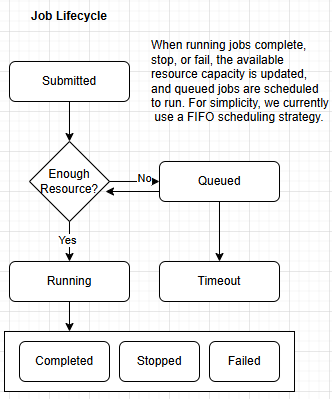
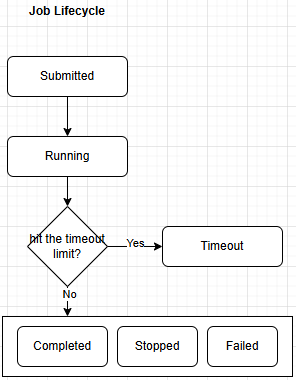
Added more design details

diff --git a/docs/design.md b/docs/design.md
@@ -5,89 +5,101 @@ It is a prototype job worker service designed based on the requirements at https
 ### Definition
 The service provides an API for running arbitrary Linux processes. These processes can be any executable programs available on the machine hosting the service. The API supports specifying commands, arguments, and environment variables.
 
-To support job status queries, each job is assigned a unique ID (UID). Resource controls for CPU, memory, and disk I/O are implemented per job using cgroups, as requested.
+To support job status queries, each job is assigned a unique ID (UID). Resource controls for CPU, memory, and disk I/O are implemented per job using cgroups v2, as requested.
 
-There are also some implicit requirements, such as maintaining job status information for querying and supporting role-based access control for authorization (using usernames as a simple approach). Jobs may also have a default timeout value to prevent them from running indefinitely.
+There are also some implicit requirements, such as maintaining job status information for querying and supporting role-based access control for authorization (using CN for user and OU for role as a simple approach). Request timeouts are hardcoded on the gRPC server side.
 ```golang
 type JobSpec struct {
     UID       string
-    Command   []string
+    Command   string
     Args      []string
-    Env       map[string]string
-    Resource  ResourceControl
+    Resources map[string]string
+    ProcessID int
     Status    JobStatus
-    Timeout   time.Duration
     Username  string
-    Created   timestamp
-    Updated   timestamp
+    StartTime timestamp
+    EndTime   timestamp
 }
+const (
+	Running   JobStatus = iota
+	Completed          // process exited 0
+	Stopped            // killed via Stop()
+	Failed             // process exited non-zero
+	Timeout            
+    Unknown
+)
 ```
 ### Lifecycle
 The following diagram illustrates the details of job status. If a job does not exist, unknown is returned by default.
 
  ![My Local Image](img/job_lifecycle.png)
 ## Component Architecture
-There are three major components: the client, the gRPC server, and the library, as shown below.
+There are three major components: the client, the gRPC server, and the library, as shown below. The greyed-out ones are optional.
  ![My Local Image](img/architecture.png)
 
 ## Client
-Cobra is integrated to create a root command to support four subcommands: startJobCmd, stopJobCmd, queryStatusCmd, and streamOutputCmd. Since we use mTLS authentication, we verify client certificates. The certificates are required to set up client commands.
+Cobra is integrated to create a root command that supports four subcommands: startJobCmd, stopJobCmd, queryStatusCmd, and streamOutputCmd, with an optional listJobsCmd.
 
-We also add resource control as mentioned above. We could use a JSON format in the command line, such as {"cpu": 1, "mem": "30M"}, to make it easier to extend. However, to keep it simple and easy to implement, we use flags like --cpu 1 --mem 30M instead.
+Since we use mTLS authentication, client certificates are verified. These certificates are required to configure and execute the client commands.
 
-We also use .max to define a hard limit for simplicity.
+The certificates contain the CN (Common Name) field as the username and the OU (Organizational Unit) field as the role for authorization purposes. The server validates these fields against the access control list (ACL), which supports two roles: user and admin.
+
+We also added resource control as described above. Resource flags are provided as key-value pairs, for example: --resource cpu=1 --resource memory=30m. The current implementation supports cpu (number of CPU cores), memory (memory.max as the memory limit), io.read (disk read throughput limit), and io.write (disk write throughput limit).
+
+Each request might have a timeout. However, for simplicity, the timeout is currently hard-coded in the gRPC server.
 
 ### Start Job
 ```
-client \
+client start \
   --server [ip:port] \
   --cert client.crt \
   --key client.key \
   --ca ca.crt \
-  start <--command> [args...] [envs...] [--cpu] [--mem] [--io] [--timeout]
+  --command /usr/bin/python  \
+  --arg -m --arg 8080 \
+  --resource cpu=1 --resource memory=30m --resource io.read=10mb --resource io.write=5mb
  ```
 ### Stop Job
  ```
-client \
+client stop \
   --server [ip:port] \
   --cert client.crt \
   --key client.key \
   --ca ca.crt \
-  stop <jobUID> [--timeout]
+  --id  cb056f6e-1643-44d3-9f64-11688bc562c4
  ```
 
  ### Query Status
  ```
-client \
+client status \
   --server [ip:port] \
   --cert client.crt \
   --key client.key \
   --ca ca.crt \
-  status <jobUID> [--timeout]
+  --id  cb056f6e-1643-44d3-9f64-11688bc562c4
  ```
 
   ### Stream output
  ```
-client \
+client output \
   --server [ip:port] \
   --cert client.crt \
   --key client.key \
   --ca ca.crt \
-  output <jobUID> [--timeout]
+  --id  cb056f6e-1643-44d3-9f64-11688bc562c4
  ```
 
    ### (Optional) List jobs
  ```
-client \
+client list \
   --server [ip:port] \
   --cert client.crt \
   --key client.key \
-  --ca ca.crt \
-  list [--timeout]
+  --ca ca.crt 
  ```
 
 ## gPRC Server
-Following the commands above, the service proto is defined below. ListJobs is added for testing purposes.
+Following the commands above, the service proto is defined below. ListJobs is added for testing purposes. One concern is that output streaming might return large payloads. In the future, I may replace bytes with BinaryChunk to support chunked streaming. For now, we use a simpler solution to get the system functional first.
  ```
 service JobService {
 
@@ -105,13 +117,113 @@ service JobService {
   // Optional for testing
   rpc ListJobs(ListJobsRequest) returns (ListJobsResponse);
 }
+
+enum JobStatus {
+  JOB_STATUS_UNKNOWN = 0;
+  JOB_STATUS_RUNNING = 1;
+  JOB_STATUS_STOPPED = 2;
+  JOB_STATUS_FAILED = 3;
+  JOB_STATUS_COMPLETED = 4;
+}
+
+message StartJobRequest {
+  string command = 1;
+  repeated string args = 2;
+  map<string, string> resources = 3;
+}
+message StartJobResponse {
+  string job_id = 1;
+  JobStatus job_status = 2;
+  google.protobuf.Timestamp start_time = 3;
+  google.protobuf.Timestamp end_time = 4;
+  string message = 5;
+}
+
+message StopJobRequest {
+  string job_id = 1;
+}
+message StopJobResponse {
+  string job_id = 1;
+  bool stopped = 2;
+  JobStatus job_status = 3;
+  string message = 4;
+}
+
+message GetStatusRequest {
+  string job_id = 1;
+}
+message GetStatusResponse {
+  string job_id = 1;
+  JobStatus status = 2;
+  string message = 3;
+}
+
+message StreamOutputRequest {
+  string job_id = 1;
+}
+message StreamOutputResponse {
+  string job_uid = 1;
+  bytes payload = 2; // I’m concerned that the payload might be large
+  string message = 3;
+}
+
+message ListJobsRequest {}
+message ListJobsResponse {
+  repeated JobInfo jobs = 1;
+  string messages = 2;
+}
+message JobInfo {
+  string job_id = 1;
+  string username = 2;
+  string command = 3;
+  repeated string args = 4;
+  map<string, string> resources = 5;
+  JobStatus job_status = 6;
+  google.protobuf.Timestamp start_time = 7;
+  google.protobuf.Timestamp end_time = 8;
+}
+
  ```
 As shown in the architecture, an authentication interceptor and an authorization interceptor are placed before the job service to ensure security. We also assume that certificates need to be rotated over time. For simplicity, we currently hardcode the expiration time.
 
 ## Library
-The job manager provides an interface for the job worker service to start and stop jobs. It includes a resource manager with an upper limit on capacity. When a job is scheduled, the resource manager checks available resources. If insufficient, the job is queued until resources are freed. A FIFO strategy is used for simplicity.
+### Resource Control
+It is implemented using cgroups v2. When a job starts, its resource limits are applied by creating a cgroup named after its jobUID. A command is constructed from the job’s command and argument attributes. After the command is created, the process ID (PID) and any child process IDs are added to cgroup.procs (use SIGSTOP and resume with SIGCONT to get child processes for race condition concerns).
 
-All jobs are persisted as jobUID.json for metadata and jobUID.output for output, including stdout and stderr. A persistenceManager is responsible for managing job metadata and loading all JSON metadata into an in-memory JobStore. A mutex is used to handle concurrent requests. Since output files can be large, a buffer pool is introduced to read files in chunks and stream them to clients accordingly.
+When a stop job request is received, all processes in cgroup.procs are killed, and the corresponding cgroup files are removed.
+
+### Metadata
+A job store is created with an in-memory map where the key is the jobUID and the value is the job’s metadata. This is used for querying job status. In addition, each job record is persisted to disk as a JSON file for crash recovery or testing, which might be optional.
+ ```
+type JobRecord struct {
+	JobID     string    `json:"job_id"`
+	Command    string    `json:"command"`
+	Args       []string  `json:"args"`
+    Resources  []string  `json:"resources"`
+	Status     string    `json:"status"`
+	PID        int       `json:"pid"`
+	ExitCode   int       `json:"exit_code"`
+	StartTime  time.Time `json:"start_time"`
+	EndTime    time.Time `json:"end_time,omitempty"`
+	Error      string    `json:"error,omitempty"`
+	OutputPath string    `json:"output_path"` 
+}
+type JobStore struct {
+	mu      sync.RWMutex //For reading and writing the job record map
+	records map[string]*JobRecord
+}
+ ```
+### Output
+
+A thread-safe OutputBuffer is created to support writing and streaming output, balancing memory usage and performance.
+ ```
+type OutputBuffer struct {
+	file   *os.File
+	writer *bufio.Writer
+	reader *bufio.Reader
+	mu     sync.Mutex
+}
+ ```
 
 ## Testing
 ### Job Lifecycle
@@ -131,5 +243,5 @@ Access other jobs using user role
 Access other jobs using admin role
 ### Resource controls
 Start a job when insufficient resources are available
-Queue jobs → release resources → check if new jobs are running
+Pass valid resource limits → check if new jobs are running
 Run jobs → check for resource leaks 
